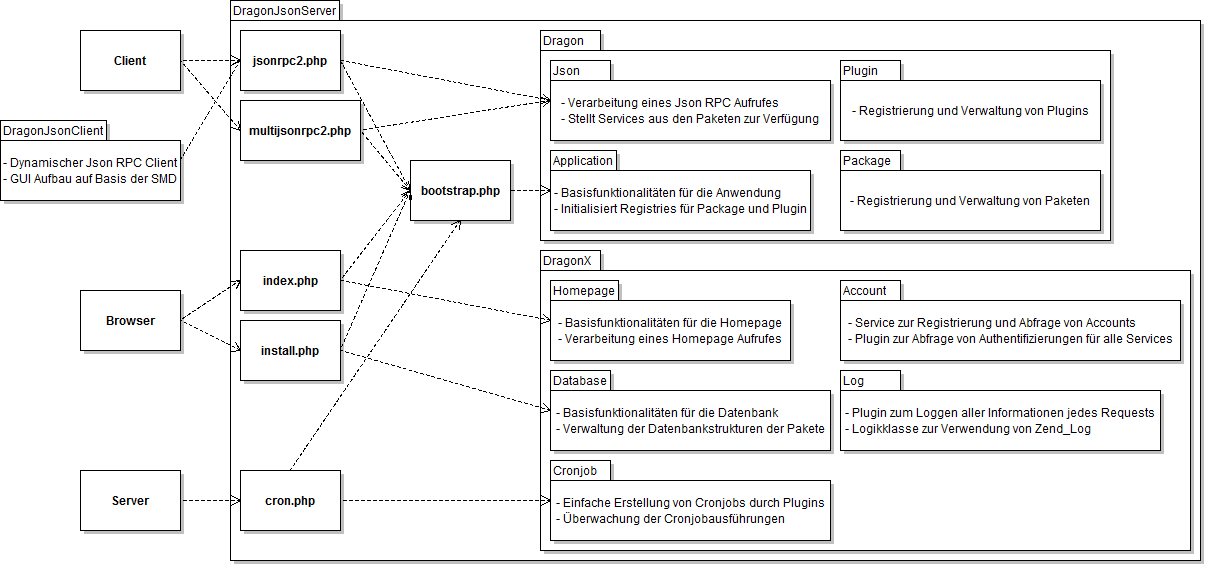
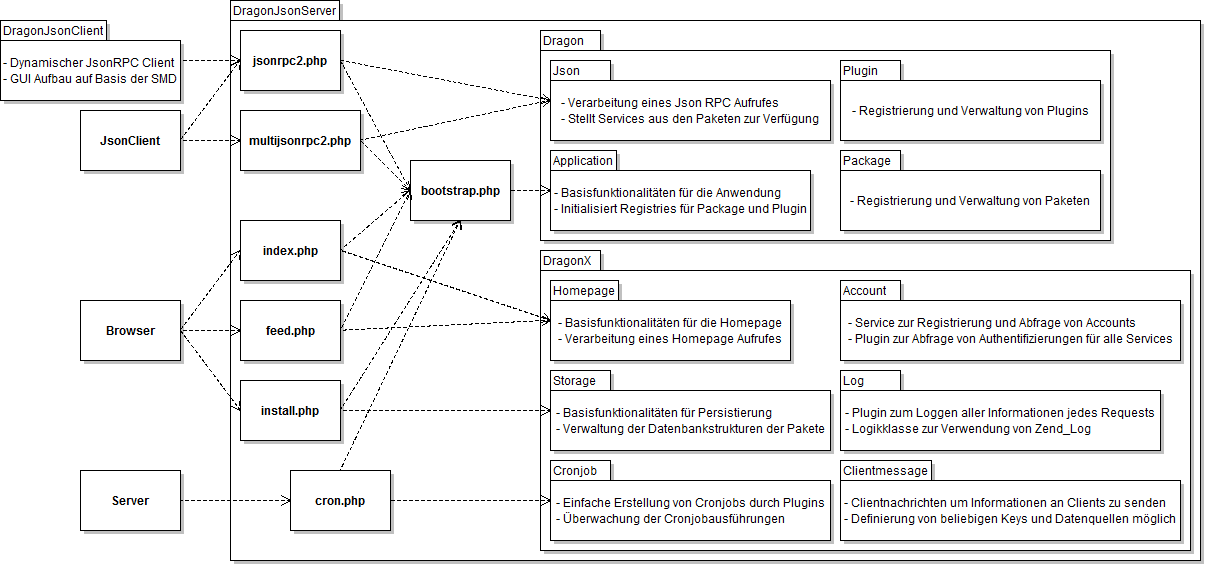
Diagramm zur Serverarchitektur auf den aktuellen Stand gebracht mit den Paketen Storage und Clientmessage

diff --git a/config/dragonx/homepage/news.php b/config/dragonx/homepage/news.php
@@ -22,6 +22,15 @@ return array(
     'perrow' => 2,
     'news' => array(
         array(
+            'title' => 'Version 1.2.2 zum Download verfügbar',
+            'content' =>
+                  'Die Version 1.2.2 ist abgeschlossen und als Download '
+                . 'verfügbar. In der Version wurde das Diagramm zur '
+                . 'Architektur auf den aktuellen Stand gebracht mit den '
+                . 'beiden Paketen Storage und Clientmessage.',
+            'timestamp' => 1345413861,
+        ),
+        array(
             'title' => 'Version 1.2.1 zum Download verfügbar',
             'content' =>
                   'Die Version 1.2.1 ist abgeschlossen und als Download '
